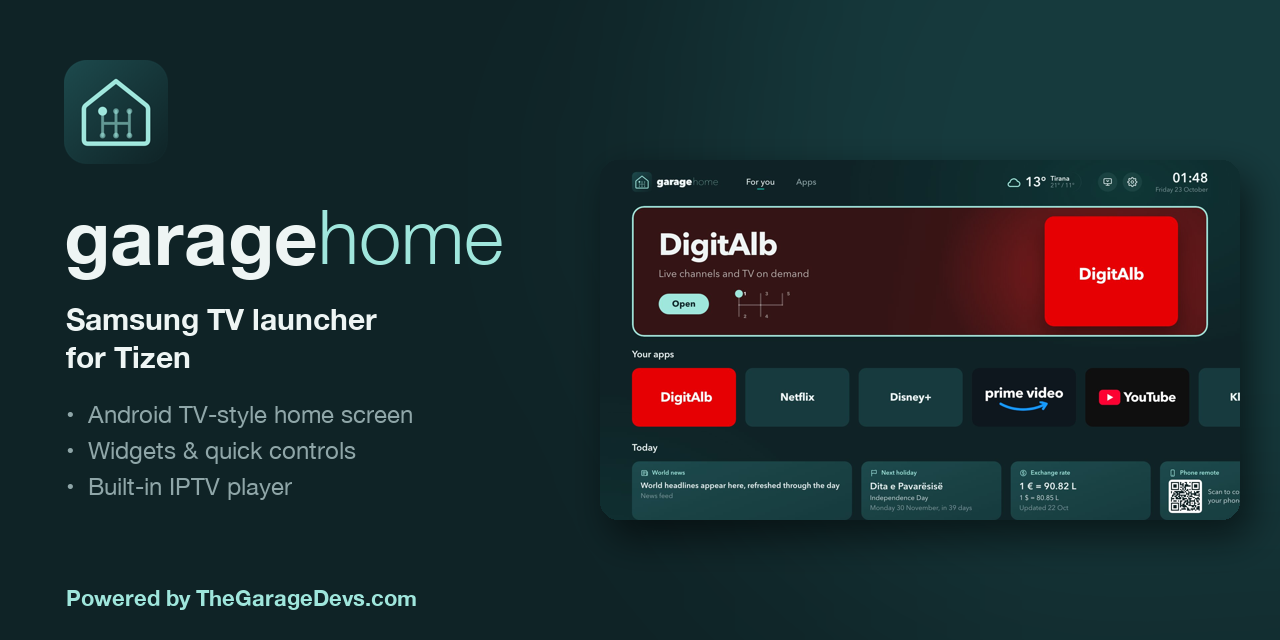
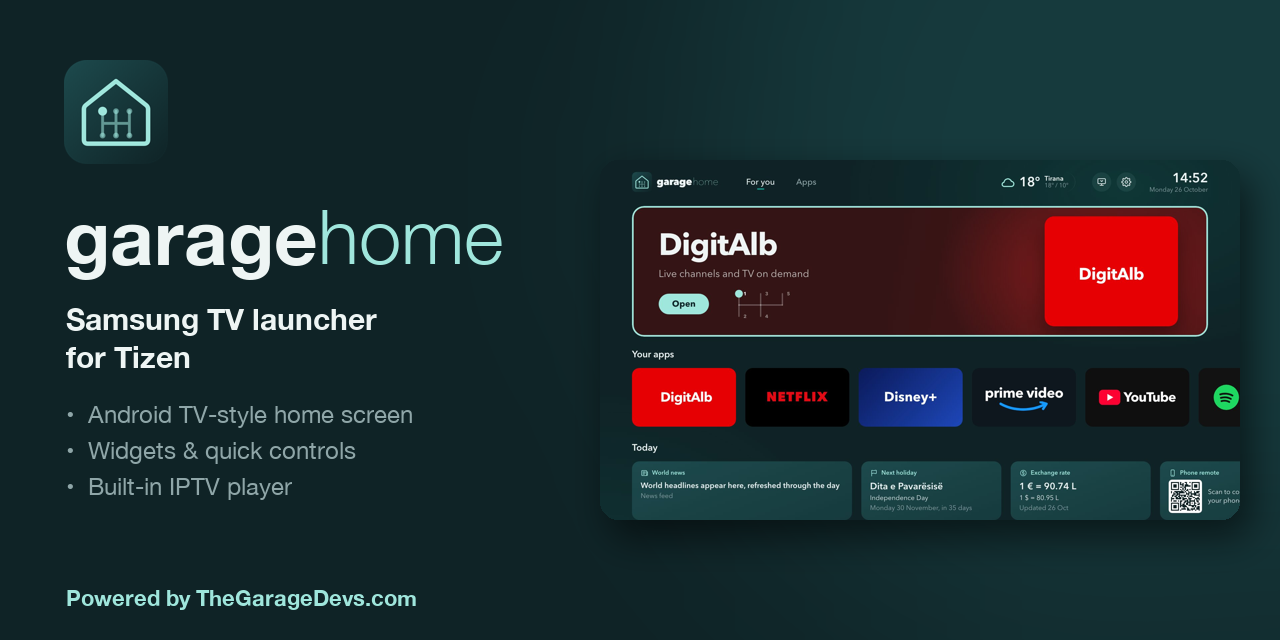
New screenshots with the branded app buttons

diff --git a/README.md b/README.md
@@ -23,7 +23,7 @@ Garage Home is an open-source **Samsung TV launcher** that replaces the Samsung 
   <br><em>Garage Home (desktop preview).</em>
 </p>
 <p align="center">
-  <img src="docs/images/garage-home-screens.jpg" alt="Garage Home screens: Today row, TV shortcuts and quick controls, all apps with Garage Player" width="1000">
+  <img src="docs/images/garage-home-screens.jpg" alt="Garage Home screens: Today row, TV shortcuts and quick controls, all apps with branded buttons" width="1000">
 </p>
 
 ## What's new
